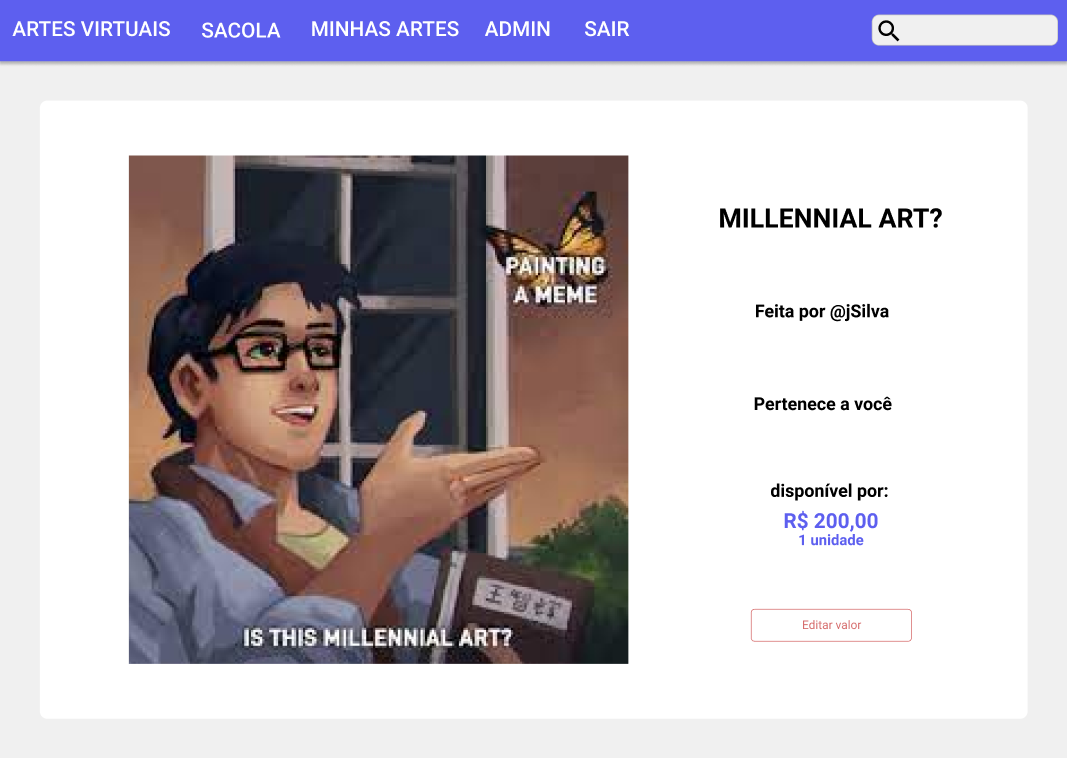
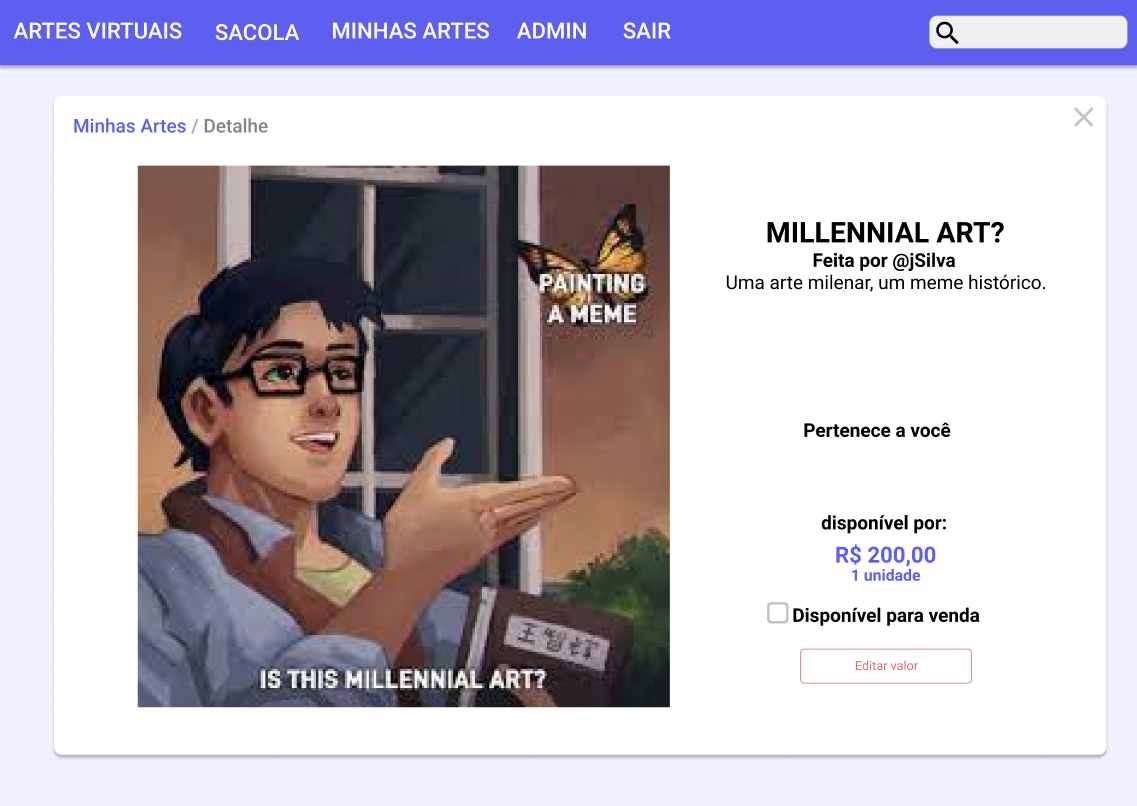
Refeat: New mockup images

diff --git a/README.md b/README.md
@@ -6,9 +6,9 @@ Sabendo que hoje muito da arte no mundo de hoje é consumida virtualmente, permi
 Venha para o ArtOnline, entre no mundo da arte.
 
 **Grupo:**
-Breno Cunha Queiroz - 11218991
-Francisco de Freitas Pedrosa - 11215699
-Thales Willian Dalvi da Silva - 11219196
+Breno Cunha Queiroz - 11218991\
+Francisco de Freitas Pedrosa - 11215699\
+Thales Willian Dalvi da Silva - 11219196\
 
 ## Sumário
 - [1.Requisitos](#1-requisitos)
@@ -49,37 +49,37 @@ Abaixo apresentamos o diagrama de navegação do site. Nas páginas inicial, bus
 </center>
 
 Seguindo o diagrama de navegação, temos as seguintes páginas:\
-Clique em _M_ para ir ao mockup. (criados utilizando [Figma](https://www.figma.com))\
+Clique em _M_ para ir à image do mockup. (criados utilizando [Figma](https://www.figma.com))\
 Clique em _H_ para ir à página html.
 
 **Páginas:**
-- Página Principal ([M](./blob/main/mockup/paginaPrincipal.png), [H](./blob/main/src/pages/index.html))
-- Detalhe Arte
-- Busca
-- Login ([M](./blob/main/mockup/login.png), H)
-- Registro ([M](./blob/main/mockup/registro.png), H)
-- Sacola ([M](./blob/main/mockup/sacola.png), [H](./blob/main/src/pages/public/bag.html))
-	- Checkout
-- Minhas artes
-	- Gerenciar arte existe ([M](./blob/main/mockup/gerenciarArteExistente.png))
-	- Upload nova arte
-- Admin ([M](./blob/main/mockup/admin.png), [H](./blob/main/src/pages/admin/main.html))
-	- Lista Artes ([M](./blob/main/mockup/adminListaArtes.png), [H](./blob/main/src/pages/admin/list.html))
-		- Adicionar Arte
-		- Editar Arte ([M](./blob/main/mockup/adminEditarArte.png), [H](./blob/main/src/pages/admin/edit.html))
-	- Lista Clientes
-		- Adicionar Cliente
-		- Editar Cliente
-	- Lista Admins
-		- Adicionar Admin
-		- Editar Admin
+- Página Principal ([M](./mockup/paginaPrincipal.png), [H](./src/pages/index.html))
+- Detalhe Arte ([M](./mockup/detalheArte.png))
+- Busca (filtro na página inicial)
+- Login ([M](./mockup/login.png), [M mobile](./mockup/loginMobile.png))
+- Registro ([M](./mockup/registro.png), [M mobile](./mockup/registerMobile.png))
+- Sacola ([M](./mockup/sacola.png), [H](./src/pages/public/bag.html))
+	- Checkout ([M](./mockup/checkout.png))
+- Minhas artes ([M](./mockup/minhasArtes.png))
+	- Gerenciar arte existe ([M](./mockup/gerenciarArteExistente.png))
+	- Upload nova arte ([M](./mockup/uploadNovaArte.png))
+- Admin ([M](./mockup/admin.png), [H](./src/pages/admin/main.html))
+	- Lista Artes ([M](./mockup/adminListaArtes.png), [H](./src/pages/admin/list.html))
+		- Adicionar Arte ([M](./mockup/adminAdicionarArte.png))
+		- Editar Arte ([M](./mockup/adminEditarArte.png), [H](./src/pages/admin/edit.html))
+	- Lista Clientes ([M](./mockup/adminListaClientes.png))
+		- Adicionar Cliente ([M](./mockup/adminAdicionarCliente.png))
+		- Editar Cliente ([M](./mockup/adminEditarCliente.png))
+	- Lista Admins ([M](./mockup/adminListaAdmins.png))
+		- Adicionar Admin ([M](./mockup/adminAdicionarAdmin.png))
+		- Editar Admin ([M](./mockup/adminEditarAdmin.png))
 
 ### 2.2 Dados no Servidor
 Todos os dados especificados nos requisitos gerais, e nos requisitos da [seção 1](#1-requisitos) serão armazenados em um banco de dados relacional. Apresentamos abaixo os campos das tabelas mais importantes:
 
 _Art {id, name, description, image, price, quantity, quantity_sold, can_sell, owner_id, creator_id, creation}\
 Customer {id, name, address, phone, email, password, total_received, token, creation}\
-Admin {id, name, phone, username, password, token, creation}_
+Admin {id, name, username, phone, email, password, token, creation}_
 
 Além disso, o servidor irá prover uma API para permitir a comunicação da aplicação com o banco de dados de acordo com as permissões do usuário. Será possível distinguir entre usuário nos requests a partir do token.
 
